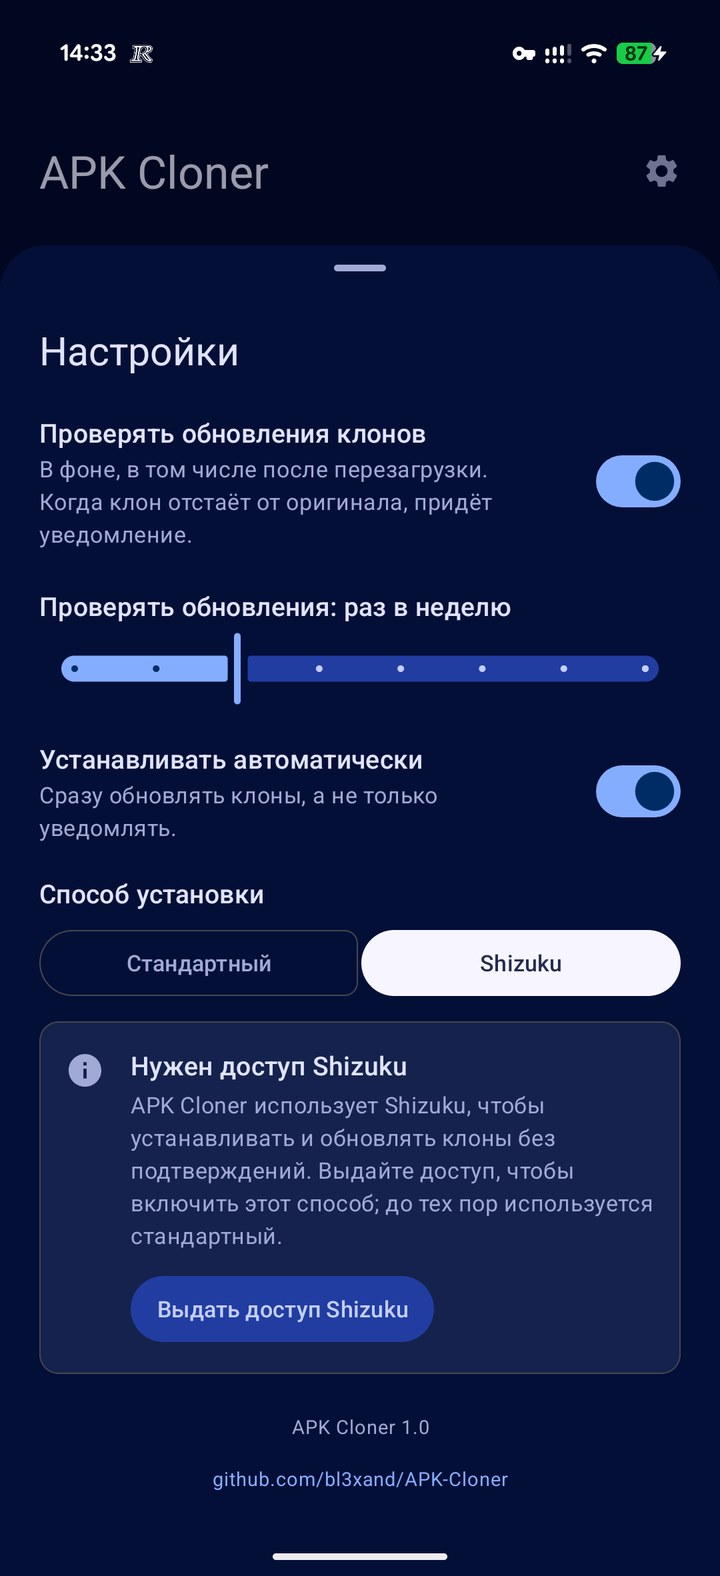
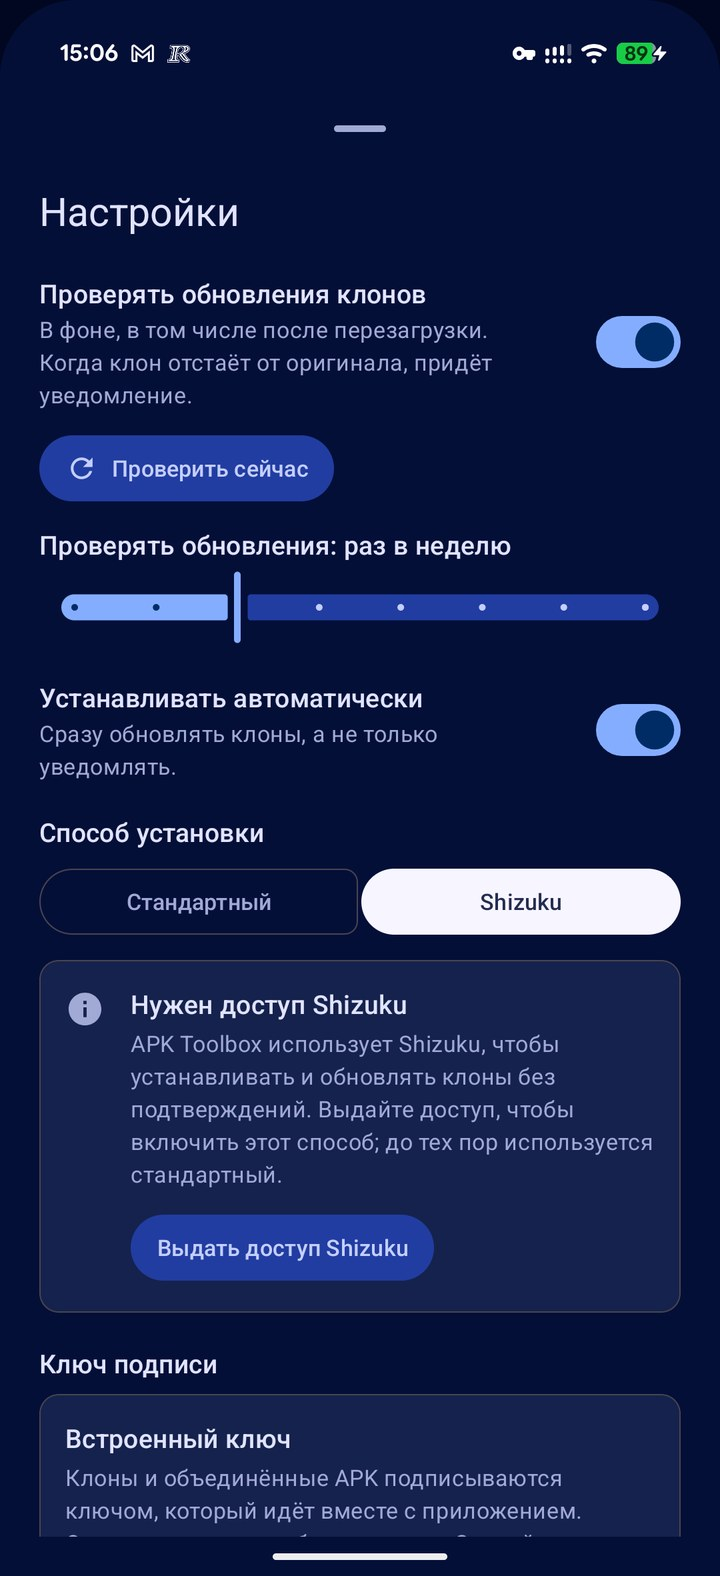
Refresh screenshots for APK Toolbox and show the signing key section

diff --git a/README.md b/README.md
@@ -118,6 +118,10 @@ app's private storage. **Export** it and keep the file: clones can only be
 updated with the key they were signed with, and the key is gone if the app is
 uninstalled. Clones made with the built-in key keep updating with it.
 
+<p align="center">
+  <img src="docs/screenshots/settings-key.jpg" width="30%" alt="Signing key" />
+</p>
+
 ## Good to know
 
 - A merged APK is signed with a different key than the original from a store,
